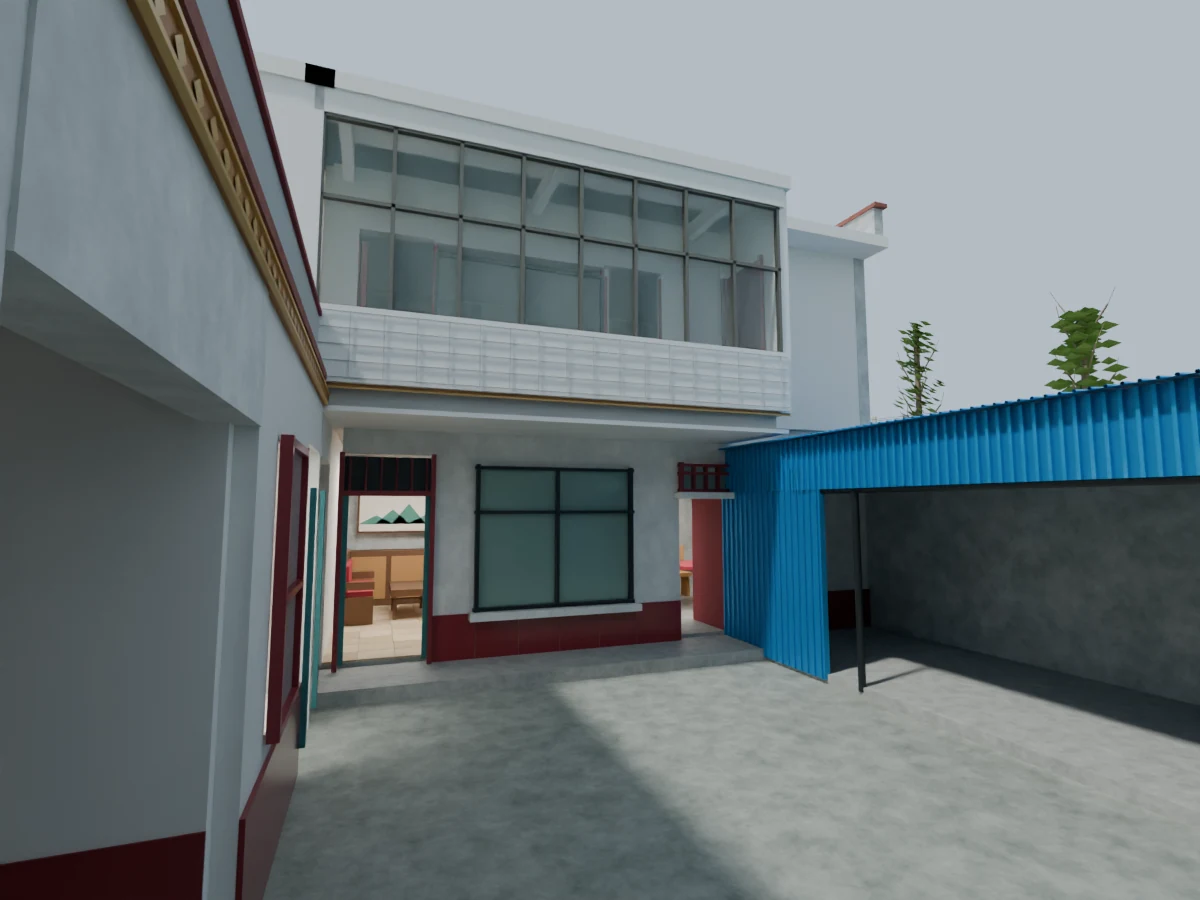
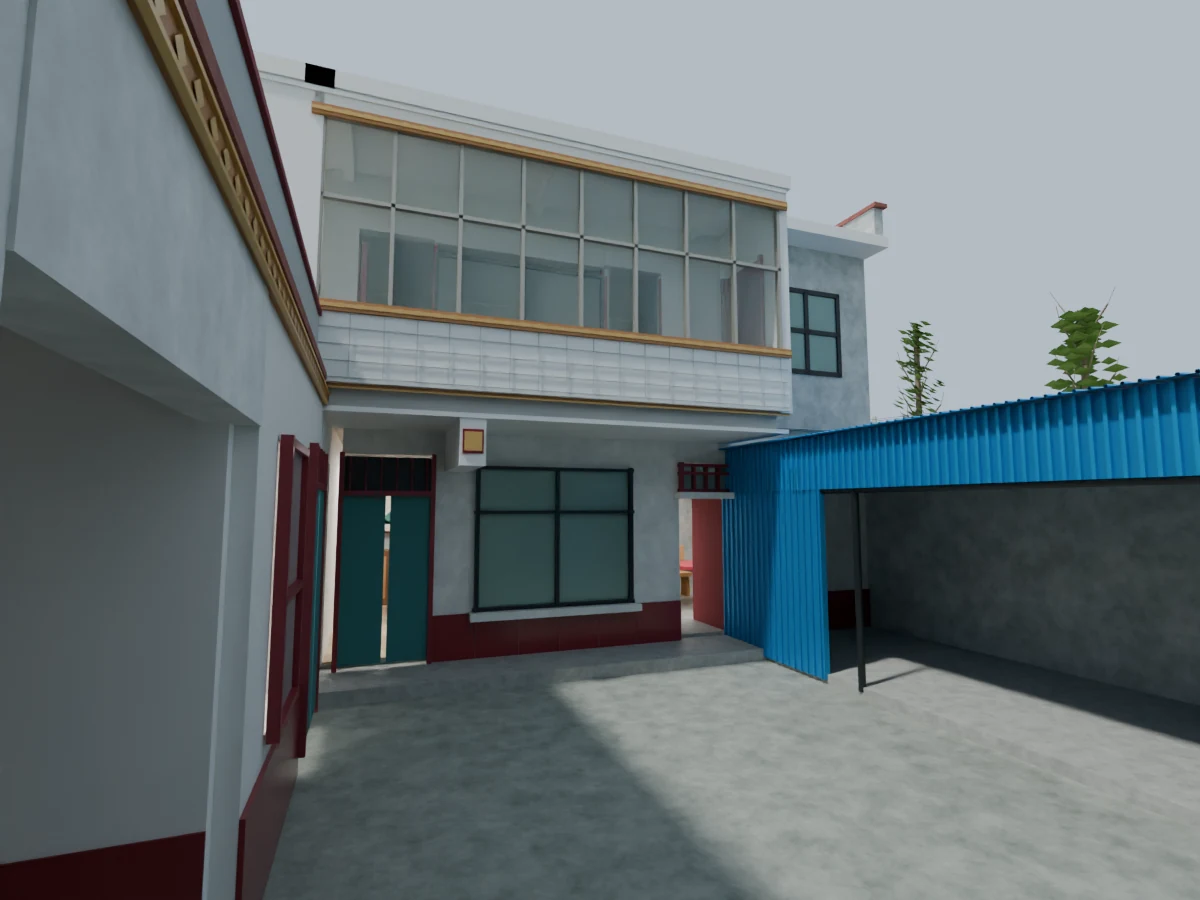
Refresh courtyard, kitchen and upstairs renders with the photo corrections

diff --git a/index.html b/index.html
@@ -6,7 +6,7 @@
   <meta name="description" content="A video-based reconstruction of a courtyard house and village alley in Yanlaozhai, Henan. Explore the editable Blender scene in 3D." />
   <title>SmallVillage — A place to remember</title>
   <link rel="icon" href="/favicon.svg" type="image/svg+xml" />
-  <link rel="preload" as="image" href="/images/courtyard.webp?v=roof-weather-20261003" />
+  <link rel="preload" as="image" href="/images/courtyard.webp?v=house-details-20261003" />
 </head>
 <body>
   <header class="header"><a class="brand" href="#"><span class="brand-icon" aria-hidden="true">田</span> SmallVillage<span class="brand-tag">A DIGITAL HOMETOWN</span></a><nav aria-label="Main navigation"><a href="#scene">Explore</a><a href="#story">The story</a><a href="https://github.com/mendal2377-droid/SmallVillage" target="_blank" rel="noopener noreferrer">GitHub ↗</a></nav></header>
@@ -20,7 +20,7 @@
         <div class="sidebar-bottom"><span class="status-dot"></span> Built from a real place<p>Visible details follow the recording.<br>Dimensions and placement are estimated.</p><a class="download-link" href="https://github.com/mendal2377-droid/SmallVillage/raw/refs/heads/main/blender/video_revision/Yanlaozhai_Video_House_and_Lane.blend">Download Blender scene <span>↓</span></a></div>
       </aside>
       <div class="stage-wrap"><div class="stage" id="stage">
-        <img id="scene-image" src="/images/courtyard.webp?v=roof-weather-20261003" alt="Reconstructed courtyard with glazed upper balcony, red wall tiles, blue shed and clean interiors" fetchpriority="high" />
+        <img id="scene-image" src="/images/courtyard.webp?v=house-details-20261003" alt="Reconstructed courtyard with glazed upper balcony, red wall tiles, blue shed and clean interiors" fetchpriority="high" />
         <div id="canvas-host" hidden></div>
         <div class="stage-top"><span class="scene-badge" id="scene-badge">01 / THE COURTYARD HOUSE</span><div class="mode-switch" aria-label="Viewing mode"><button id="render-mode" class="selected" aria-pressed="true">Renders</button><button id="three-mode" aria-pressed="false">Explore in 3D <span>↗</span></button></div></div>
         <div id="loading" class="loading" role="status" hidden><span class="spinner"></span><strong>Opening your little corner of the world…</strong><span id="loading-progress">Loading 3D model</span></div>
@@ -51,7 +51,7 @@
         <div class="viewer-controls" id="viewer-controls" hidden><button data-view="orbit" class="active">Orbit view</button><button data-view="walk" aria-pressed="false">Walk inside</button><button data-view="top">From above</button><button data-view="close">Come closer</button><button id="reset-view" title="Reset camera or walking position">Reset ↺</button></div>
       </div>
       <div class="environment-options"><label>Weather <select id="scene-weather"><option value="clear">Clear sky</option><option value="overcast">Overcast</option><option value="rain">Rain</option><option value="storm">Thunderstorm</option><option value="snow">Snowfall</option><option value="fog">Fog</option><option value="sunset">Sunset</option></select></label><button id="find-house" hidden>Find your house ⌖</button></div>
-      <div id="village-options" class="village-options" hidden><label>Farm season <select id="village-season"><option value="green">Spring · green fields</option><option value="summer">Summer · green corn</option><option value="corn">Autumn · dry corn</option><option value="winter">Winter · snow</option></select></label><label>Start a walk <select id="walk-location"><option value="home">Your house lane</option><option value="fields">Field path</option><option value="avenue">Poplar avenue</option><option value="pond">Pond bridge</option><option value="school">School road</option></select></label><button id="walk-location-go">Walk here ↗</button><small>House position follows your star. Individual plots and distances are estimated.</small></div><div class="filmstrip" aria-label="Rendered views"><button data-image="courtyard" class="active" aria-pressed="true"><img src="/images/courtyard.webp?v=roof-weather-20261003" alt="" /><span>01 <strong>Courtyard</strong></span></button><button data-image="alley" aria-pressed="false"><img src="/images/alley.webp" alt="" loading="lazy" /><span>02 <strong>Side alley</strong></span></button><button data-image="entrance" aria-pressed="false"><img src="/images/entrance.webp" alt="" loading="lazy" /><span>03 <strong>Entrance</strong></span></button><button data-image="context" aria-pressed="false"><img src="/images/context.webp?v=roof-weather-20261003" alt="" loading="lazy" /><span>04 <strong>From above</strong></span></button><button data-image="kitchen" aria-pressed="false"><img src="/images/kitchen.webp?v=roof-weather-20261003" alt="" loading="lazy" /><span>05 <strong>Kitchen</strong></span></button><button data-image="meeting" aria-pressed="false"><img src="/images/meeting.webp?v=roof-weather-20261003" alt="" loading="lazy" /><span>06 <strong>Meeting room</strong></span></button><button data-image="bedroom" aria-pressed="false"><img src="/images/bedroom.webp?v=roof-weather-20261003" alt="" loading="lazy" /><span>07 <strong>Bedroom</strong></span></button><button data-image="storage" aria-pressed="false"><img src="/images/storage.webp?v=roof-weather-20261003" alt="" loading="lazy" /><span>08 <strong>Storage room</strong></span></button><button data-image="stairs" aria-pressed="false"><img src="/images/stairs.webp?v=roof-weather-20261003" alt="" loading="lazy" /><span>09 <strong>Staircase</strong></span></button><button data-image="upstairs" aria-pressed="false"><img src="/images/upstairs.webp?v=roof-weather-20261003" alt="" loading="lazy" /><span>10 <strong>Upstairs</strong></span></button><button data-image="village" data-scene="village" aria-pressed="false"><img src="/images/village.webp?v=roof-weather-20261003" alt="" loading="lazy" /><span>11 <strong>Village</strong></span></button><button data-image="villageplan" data-scene="village" aria-pressed="false"><img src="/images/villageplan.webp?v=roof-weather-20261003" alt="" loading="lazy" /><span>12 <strong>Village plan</strong></span></button><button data-image="avenue" data-scene="village" aria-pressed="false"><img src="/images/avenue.webp?v=roof-weather-20261003" alt="" loading="lazy" /><span>13 <strong>Poplar avenue</strong></span></button><button data-image="fieldpath" data-scene="village" aria-pressed="false"><img src="/images/fieldpath.webp?v=roof-weather-20261003" alt="" loading="lazy" /><span>14 <strong>Field path</strong></span></button><button data-image="winterlane" data-scene="village" aria-pressed="false"><img src="/images/winterlane.webp?v=roof-weather-20261003" alt="" loading="lazy" /><span>15 <strong>Winter</strong></span></button><button data-image="terrace" aria-pressed="false"><img src="/images/terrace.webp?v=roof-weather-20261003" alt="" loading="lazy" /><span>16 <strong>Roof terrace</strong></span></button><button data-image="cornpath" data-scene="village" aria-pressed="false"><img src="/images/cornpath.webp?v=roof-weather-20261003" alt="" loading="lazy" /><span>17 <strong>Autumn corn</strong></span></button></div>
+      <div id="village-options" class="village-options" hidden><label>Farm season <select id="village-season"><option value="green">Spring · green fields</option><option value="summer">Summer · green corn</option><option value="corn">Autumn · dry corn</option><option value="winter">Winter · snow</option></select></label><label>Start a walk <select id="walk-location"><option value="home">Your house lane</option><option value="fields">Field path</option><option value="avenue">Poplar avenue</option><option value="pond">Pond bridge</option><option value="school">School road</option></select></label><button id="walk-location-go">Walk here ↗</button><small>House position follows your star. Individual plots and distances are estimated.</small></div><div class="filmstrip" aria-label="Rendered views"><button data-image="courtyard" class="active" aria-pressed="true"><img src="/images/courtyard.webp?v=house-details-20261003" alt="" /><span>01 <strong>Courtyard</strong></span></button><button data-image="alley" aria-pressed="false"><img src="/images/alley.webp" alt="" loading="lazy" /><span>02 <strong>Side alley</strong></span></button><button data-image="entrance" aria-pressed="false"><img src="/images/entrance.webp" alt="" loading="lazy" /><span>03 <strong>Entrance</strong></span></button><button data-image="context" aria-pressed="false"><img src="/images/context.webp?v=roof-weather-20261003" alt="" loading="lazy" /><span>04 <strong>From above</strong></span></button><button data-image="kitchen" aria-pressed="false"><img src="/images/kitchen.webp?v=house-details-20261003" alt="" loading="lazy" /><span>05 <strong>Kitchen</strong></span></button><button data-image="meeting" aria-pressed="false"><img src="/images/meeting.webp?v=roof-weather-20261003" alt="" loading="lazy" /><span>06 <strong>Meeting room</strong></span></button><button data-image="bedroom" aria-pressed="false"><img src="/images/bedroom.webp?v=roof-weather-20261003" alt="" loading="lazy" /><span>07 <strong>Bedroom</strong></span></button><button data-image="storage" aria-pressed="false"><img src="/images/storage.webp?v=roof-weather-20261003" alt="" loading="lazy" /><span>08 <strong>Storage room</strong></span></button><button data-image="stairs" aria-pressed="false"><img src="/images/stairs.webp?v=roof-weather-20261003" alt="" loading="lazy" /><span>09 <strong>Staircase</strong></span></button><button data-image="upstairs" aria-pressed="false"><img src="/images/upstairs.webp?v=house-details-20261003" alt="" loading="lazy" /><span>10 <strong>Upstairs</strong></span></button><button data-image="village" data-scene="village" aria-pressed="false"><img src="/images/village.webp?v=roof-weather-20261003" alt="" loading="lazy" /><span>11 <strong>Village</strong></span></button><button data-image="villageplan" data-scene="village" aria-pressed="false"><img src="/images/villageplan.webp?v=roof-weather-20261003" alt="" loading="lazy" /><span>12 <strong>Village plan</strong></span></button><button data-image="avenue" data-scene="village" aria-pressed="false"><img src="/images/avenue.webp?v=roof-weather-20261003" alt="" loading="lazy" /><span>13 <strong>Poplar avenue</strong></span></button><button data-image="fieldpath" data-scene="village" aria-pressed="false"><img src="/images/fieldpath.webp?v=roof-weather-20261003" alt="" loading="lazy" /><span>14 <strong>Field path</strong></span></button><button data-image="winterlane" data-scene="village" aria-pressed="false"><img src="/images/winterlane.webp?v=roof-weather-20261003" alt="" loading="lazy" /><span>15 <strong>Winter</strong></span></button><button data-image="terrace" aria-pressed="false"><img src="/images/terrace.webp?v=roof-weather-20261003" alt="" loading="lazy" /><span>16 <strong>Roof terrace</strong></span></button><button data-image="cornpath" data-scene="village" aria-pressed="false"><img src="/images/cornpath.webp?v=roof-weather-20261003" alt="" loading="lazy" /><span>17 <strong>Autumn corn</strong></span></button></div>
       <div class="stage-note"><span id="interaction-hint">Explore the courtyard, clean interiors, staircase and upstairs view.</span><span>BLENDER → THE BROWSER</span></div>
       </div>
     </section>

diff --git a/src/main.js b/src/main.js
@@ -50,7 +50,7 @@ $('#canvas-host').addEventListener('navigationchange',({detail})=>{
 
 function showImage(key) {
   currentImage = key;
-  image.src = `/images/${key}.webp?v=roof-weather-20261003`;
+  image.src = `/images/${key}.webp?v=house-details-20261003`;
   image.alt = imageInfo[key][1];
   $('#view-title').textContent = imageInfo[key][0];
   document.querySelectorAll('[data-image]').forEach((b) => {
